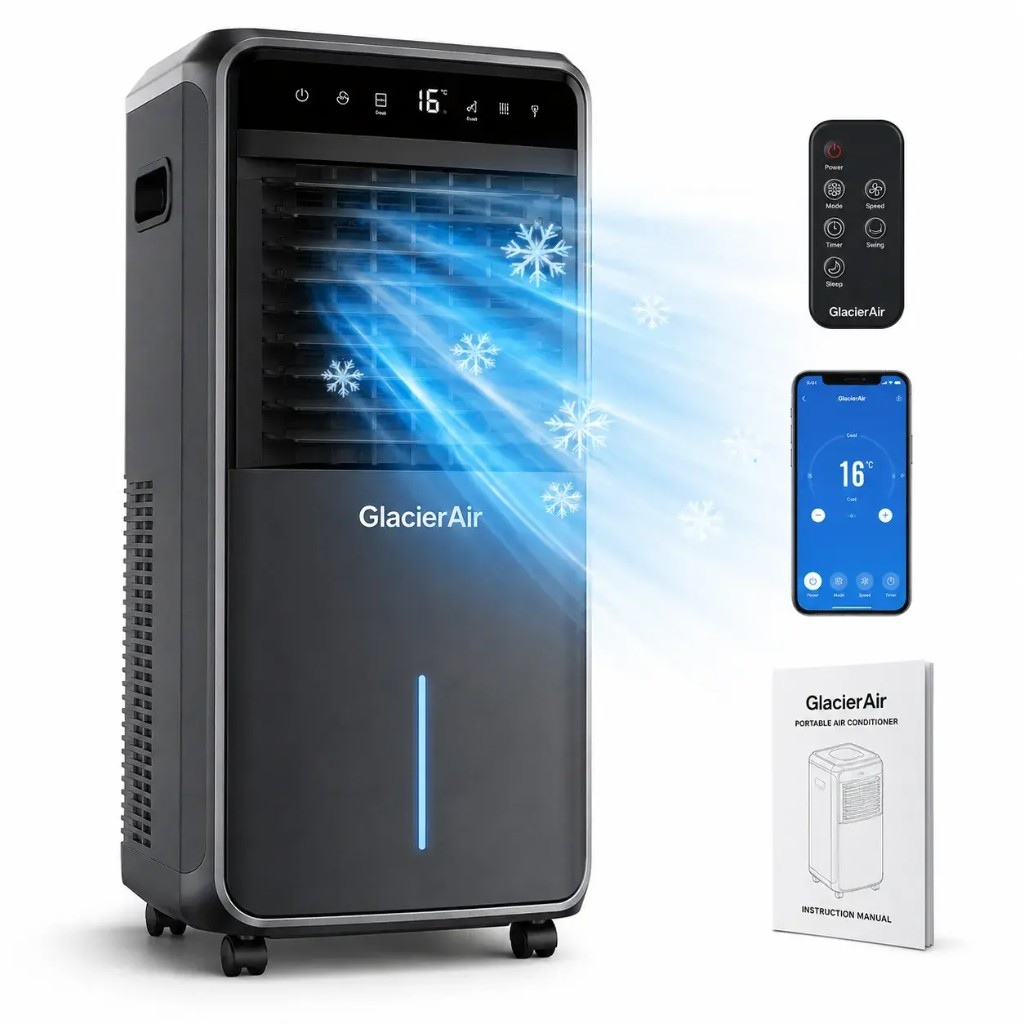
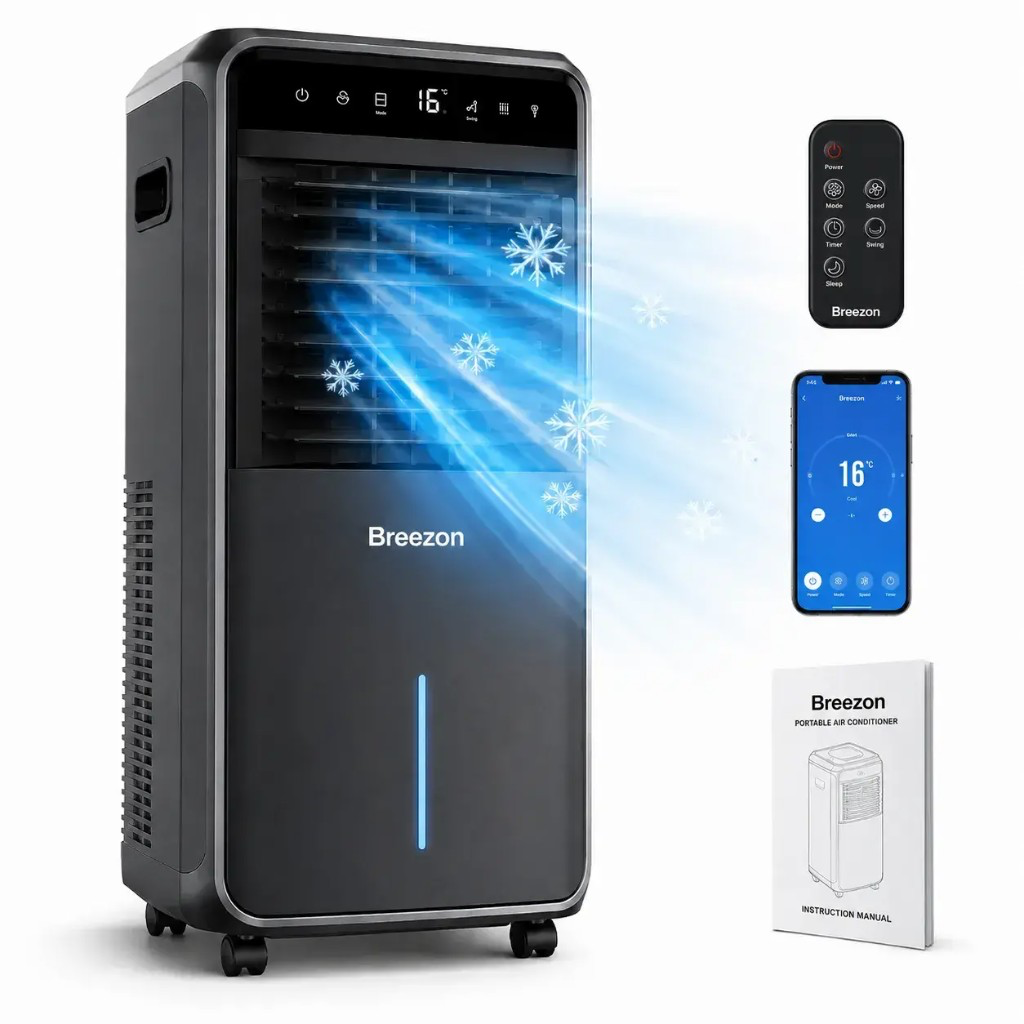
Update Breezon product and review images with correct branding.
Replace GlacierAir placeholder assets with Breezon hero, feature, kit, and testimonial photos and cache-bust image URLs on EN/IT landings.

diff --git a/it/breezon/index.html b/it/breezon/index.html
@@ -53,7 +53,7 @@ window.SITE_CONFIG = {
     <h1>Il primo climatizzatore da <span class="hl">18.000 BTU</span> senza tubo esterno: riscalda e raffresca fino a <span class="hl">145 m²</span> in pochi minuti</h1>
     <p class="lead"><strong>Breezon™</strong> climatizza la tua casa senza unità esterna e senza installazioni complicate. Tecnologia <strong>Smart Climate AI</strong>, filtri <strong>HEPA</strong>, solo <strong>18 dB</strong> in modalità notte — e paghi solo alla consegna.</p>
     <div class="hero-image hero-image-mobile-only">
-      <img decoding="async" src="/assets/img/products/breezon/hero.png" alt="Breezon climatizzatore portatile 18.000 BTU" width="560" height="560" loading="eager" fetchpriority="high" onerror="this.src='/assets/img/placeholder.svg'">
+      <img decoding="async" src="/assets/img/products/breezon/hero.png?v=2" alt="Breezon climatizzatore portatile 18.000 BTU" width="560" height="560" loading="eager" fetchpriority="high" onerror="this.src='/assets/img/placeholder.svg'">
     </div>
     <div class="price-block">
       <span class="was">296,67 €</span>
@@ -64,7 +64,7 @@ window.SITE_CONFIG = {
     <p class="form-note">🔒 Nessun anticipo · Paghi alla consegna · Spedizione 24/48h</p>
   </div>
   <div class="hero-image hero-image-desktop-only">
-    <img decoding="async" src="/assets/img/products/breezon/hero.png" alt="Breezon climatizzatore portatile 18.000 BTU" width="560" height="560" loading="eager" fetchpriority="high" onerror="this.src='/assets/img/placeholder.svg'">
+    <img decoding="async" src="/assets/img/products/breezon/hero.png?v=2" alt="Breezon climatizzatore portatile 18.000 BTU" width="560" height="560" loading="eager" fetchpriority="high" onerror="this.src='/assets/img/placeholder.svg'">
   </div>
 </section>
 
@@ -127,7 +127,7 @@ window.SITE_CONFIG = {
 
 <section class="why-block wrap">
   <div class="why-grid">
-    <div class="why-img"><img decoding="async" src="/assets/img/products/breezon/desc-1.png" alt="Breezon riscalda e raffresca fino a 145 m²" loading="lazy" onerror="this.src='/assets/img/placeholder.svg'"></div>
+    <div class="why-img"><img decoding="async" src="/assets/img/products/breezon/desc-1.png?v=2" alt="Breezon riscalda e raffresca fino a 145 m²" loading="lazy" onerror="this.src='/assets/img/placeholder.svg'"></div>
     <div>
       <div class="num-eyebrow">01 — Fresco in estate, caldo in inverno</div>
       <h3>Clima perfetto in pochi minuti, senza tubi né installazioni</h3>
@@ -140,7 +140,7 @@ window.SITE_CONFIG = {
 
 <section class="why-block wrap">
   <div class="why-grid">
-    <div class="why-img"><img decoding="async" src="/assets/img/products/breezon/desc-2.png" alt="Breezon aria pulita con filtri HEPA" loading="lazy" onerror="this.src='/assets/img/placeholder.svg'"></div>
+    <div class="why-img"><img decoding="async" src="/assets/img/products/breezon/desc-2.png?v=2" alt="Breezon aria pulita con filtri HEPA" loading="lazy" onerror="this.src='/assets/img/placeholder.svg'"></div>
     <div>
       <div class="num-eyebrow">02 — Aria pulita e umidità sempre equilibrata</div>
       <h3>Filtri HEPA e Smart Climate AI per un comfort sano</h3>
@@ -153,7 +153,7 @@ window.SITE_CONFIG = {
 
 <section class="why-block wrap" style="border-bottom:none;">
   <div class="why-grid">
-    <div class="why-img"><img decoding="async" src="/assets/img/products/breezon/desc-3.png" alt="Breezon ultra silenzioso modalità notte" loading="lazy" onerror="this.src='/assets/img/placeholder.svg'"></div>
+    <div class="why-img"><img decoding="async" src="/assets/img/products/breezon/desc-3.png?v=2" alt="Breezon ultra silenzioso modalità notte" loading="lazy" onerror="this.src='/assets/img/placeholder.svg'"></div>
     <div>
       <div class="num-eyebrow">03 — Silenzio e bollette più leggere</div>
       <h3>Solo 18 dB di notte e consumo ottimizzato</h3>
@@ -187,7 +187,7 @@ window.SITE_CONFIG = {
     </div>
     <div class="t-grid">
       <div class="testimonial">
-        <img decoding="async" class="t-photo" src="/assets/img/reviews/breezon/review-1.png" alt="Breezon — Marco P. ✅ — Acquisto verificato" loading="lazy" onerror="this.src='/assets/img/placeholder.svg'">
+        <img decoding="async" class="t-photo" src="/assets/img/reviews/breezon/review-1.png?v=2" alt="Breezon — Marco P. ✅ — Acquisto verificato" loading="lazy" onerror="this.src='/assets/img/placeholder.svg'">
         <div class="t-body">
           <div class="stars">★★★★★</div>
           <h4>Finalmente senza il tubo dalla finestra</h4>
@@ -196,7 +196,7 @@ window.SITE_CONFIG = {
         </div>
       </div>
       <div class="testimonial">
-        <img decoding="async" class="t-photo" src="/assets/img/reviews/breezon/review-2.png" alt="Breezon — Luca R. ✅ — Acquisto verificato" loading="lazy" onerror="this.src='/assets/img/placeholder.svg'">
+        <img decoding="async" class="t-photo" src="/assets/img/reviews/breezon/review-2.png?v=2" alt="Breezon — Luca R. ✅ — Acquisto verificato" loading="lazy" onerror="this.src='/assets/img/placeholder.svg'">
         <div class="t-body">
           <div class="stars">★★★★★</div>
           <h4>Aria fresca, asciutta e silenziosa</h4>
@@ -205,7 +205,7 @@ window.SITE_CONFIG = {
         </div>
       </div>
       <div class="testimonial">
-        <img decoding="async" class="t-photo" src="/assets/img/reviews/breezon/review-3.png" alt="Breezon — Giulia M. ✅ — Acquisto verificato" loading="lazy" onerror="this.src='/assets/img/placeholder.svg'">
+        <img decoding="async" class="t-photo" src="/assets/img/reviews/breezon/review-3.png?v=2" alt="Breezon — Giulia M. ✅ — Acquisto verificato" loading="lazy" onerror="this.src='/assets/img/placeholder.svg'">
         <div class="t-body">
           <div class="stars">★★★★★</div>
           <h4>Molto pratico con app e telecomando</h4>
@@ -223,7 +223,7 @@ window.SITE_CONFIG = {
     <h2>Kit completo Breezon™</h2>
   </div>
   <div class="kit-box">
-    <img decoding="async" src="/assets/img/products/breezon/kit.png" alt="Kit completo Breezon climatizzatore portatile" loading="lazy" onerror="this.src='/assets/img/placeholder.svg'">
+    <img decoding="async" src="/assets/img/products/breezon/kit.png?v=2" alt="Kit completo Breezon climatizzatore portatile" loading="lazy" onerror="this.src='/assets/img/placeholder.svg'">
     <div class="kit-content">
       <div class="price-block" style="margin-bottom:16px;">
         <span class="was">296,67 €</span>

diff --git a/en/breezon/index.html b/en/breezon/index.html
@@ -53,7 +53,7 @@ window.SITE_CONFIG = {
     <h1>The first <span class="hl">18,000 BTU</span> climate unit with no exterior hose: heats and cools up to <span class="hl">145 m²</span> in minutes</h1>
     <p class="lead"><strong>Breezon™</strong> climate-controls your home without an exterior unit or complicated installation. <strong>Smart Climate AI</strong> technology, <strong>HEPA</strong> filters, just <strong>18 dB</strong> in night mode — and you only pay on delivery.</p>
     <div class="hero-image hero-image-mobile-only">
-      <img decoding="async" src="/assets/img/products/breezon/hero.png" alt="Breezon portable 18,000 BTU air conditioner" width="560" height="560" loading="eager" fetchpriority="high" onerror="this.src='/assets/img/placeholder.svg'">
+      <img decoding="async" src="/assets/img/products/breezon/hero.png?v=2" alt="Breezon portable 18,000 BTU air conditioner" width="560" height="560" loading="eager" fetchpriority="high" onerror="this.src='/assets/img/placeholder.svg'">
     </div>
     <div class="price-block">
       <span class="was">€296.67</span>
@@ -64,7 +64,7 @@ window.SITE_CONFIG = {
     <p class="form-note">🔒 No upfront payment · Pay on delivery · 24/48h shipping</p>
   </div>
   <div class="hero-image hero-image-desktop-only">
-    <img decoding="async" src="/assets/img/products/breezon/hero.png" alt="Breezon portable 18,000 BTU air conditioner" width="560" height="560" loading="eager" fetchpriority="high" onerror="this.src='/assets/img/placeholder.svg'">
+    <img decoding="async" src="/assets/img/products/breezon/hero.png?v=2" alt="Breezon portable 18,000 BTU air conditioner" width="560" height="560" loading="eager" fetchpriority="high" onerror="this.src='/assets/img/placeholder.svg'">
   </div>
 </section>
 
@@ -127,7 +127,7 @@ window.SITE_CONFIG = {
 
 <section class="why-block wrap">
   <div class="why-grid">
-    <div class="why-img"><img decoding="async" src="/assets/img/products/breezon/desc-1.png" alt="Breezon heats and cools up to 145 m²" loading="lazy" onerror="this.src='/assets/img/placeholder.svg'"></div>
+    <div class="why-img"><img decoding="async" src="/assets/img/products/breezon/desc-1.png?v=2" alt="Breezon heats and cools up to 145 m²" loading="lazy" onerror="this.src='/assets/img/placeholder.svg'"></div>
     <div>
       <div class="num-eyebrow">01 — Cool in summer, warm in winter</div>
       <h3>Perfect climate in minutes, no hoses or installation</h3>
@@ -140,7 +140,7 @@ window.SITE_CONFIG = {
 
 <section class="why-block wrap">
   <div class="why-grid">
-    <div class="why-img"><img decoding="async" src="/assets/img/products/breezon/desc-2.png" alt="Breezon clean air with HEPA filters" loading="lazy" onerror="this.src='/assets/img/placeholder.svg'"></div>
+    <div class="why-img"><img decoding="async" src="/assets/img/products/breezon/desc-2.png?v=2" alt="Breezon clean air with HEPA filters" loading="lazy" onerror="this.src='/assets/img/placeholder.svg'"></div>
     <div>
       <div class="num-eyebrow">02 — Clean air and balanced humidity</div>
       <h3>HEPA filters and Smart Climate AI for healthy comfort</h3>
@@ -153,7 +153,7 @@ window.SITE_CONFIG = {
 
 <section class="why-block wrap" style="border-bottom:none;">
   <div class="why-grid">
-    <div class="why-img"><img decoding="async" src="/assets/img/products/breezon/desc-3.png" alt="Breezon ultra-quiet night mode" loading="lazy" onerror="this.src='/assets/img/placeholder.svg'"></div>
+    <div class="why-img"><img decoding="async" src="/assets/img/products/breezon/desc-3.png?v=2" alt="Breezon ultra-quiet night mode" loading="lazy" onerror="this.src='/assets/img/placeholder.svg'"></div>
     <div>
       <div class="num-eyebrow">03 — Quiet nights, lighter bills</div>
       <h3>Just 18 dB at night and optimised consumption</h3>
@@ -187,7 +187,7 @@ window.SITE_CONFIG = {
     </div>
     <div class="t-grid">
       <div class="testimonial">
-        <img decoding="async" class="t-photo" src="/assets/img/reviews/breezon/review-1.png" alt="Breezon — Mark P. ✅ — Verified purchase" loading="lazy" onerror="this.src='/assets/img/placeholder.svg'">
+        <img decoding="async" class="t-photo" src="/assets/img/reviews/breezon/review-1.png?v=2" alt="Breezon — Mark P. ✅ — Verified purchase" loading="lazy" onerror="this.src='/assets/img/placeholder.svg'">
         <div class="t-body">
           <div class="stars">★★★★★</div>
           <h4>Finally no window hose</h4>
@@ -196,7 +196,7 @@ window.SITE_CONFIG = {
         </div>
       </div>
       <div class="testimonial">
-        <img decoding="async" class="t-photo" src="/assets/img/reviews/breezon/review-2.png" alt="Breezon — Luke R. ✅ — Verified purchase" loading="lazy" onerror="this.src='/assets/img/placeholder.svg'">
+        <img decoding="async" class="t-photo" src="/assets/img/reviews/breezon/review-2.png?v=2" alt="Breezon — Luke R. ✅ — Verified purchase" loading="lazy" onerror="this.src='/assets/img/placeholder.svg'">
         <div class="t-body">
           <div class="stars">★★★★★</div>
           <h4>Fresh, dry, and quiet air</h4>
@@ -205,7 +205,7 @@ window.SITE_CONFIG = {
         </div>
       </div>
       <div class="testimonial">
-        <img decoding="async" class="t-photo" src="/assets/img/reviews/breezon/review-3.png" alt="Breezon — Julia M. ✅ — Verified purchase" loading="lazy" onerror="this.src='/assets/img/placeholder.svg'">
+        <img decoding="async" class="t-photo" src="/assets/img/reviews/breezon/review-3.png?v=2" alt="Breezon — Julia M. ✅ — Verified purchase" loading="lazy" onerror="this.src='/assets/img/placeholder.svg'">
         <div class="t-body">
           <div class="stars">★★★★★</div>
           <h4>Very handy with app and remote</h4>
@@ -223,7 +223,7 @@ window.SITE_CONFIG = {
     <h2>Complete Breezon™ kit</h2>
   </div>
   <div class="kit-box">
-    <img decoding="async" src="/assets/img/products/breezon/kit.png" alt="Complete Breezon portable air conditioner kit" loading="lazy" onerror="this.src='/assets/img/placeholder.svg'">
+    <img decoding="async" src="/assets/img/products/breezon/kit.png?v=2" alt="Complete Breezon portable air conditioner kit" loading="lazy" onerror="this.src='/assets/img/placeholder.svg'">
     <div class="kit-content">
       <div class="price-block" style="margin-bottom:16px;">
         <span class="was">€296.67</span>
